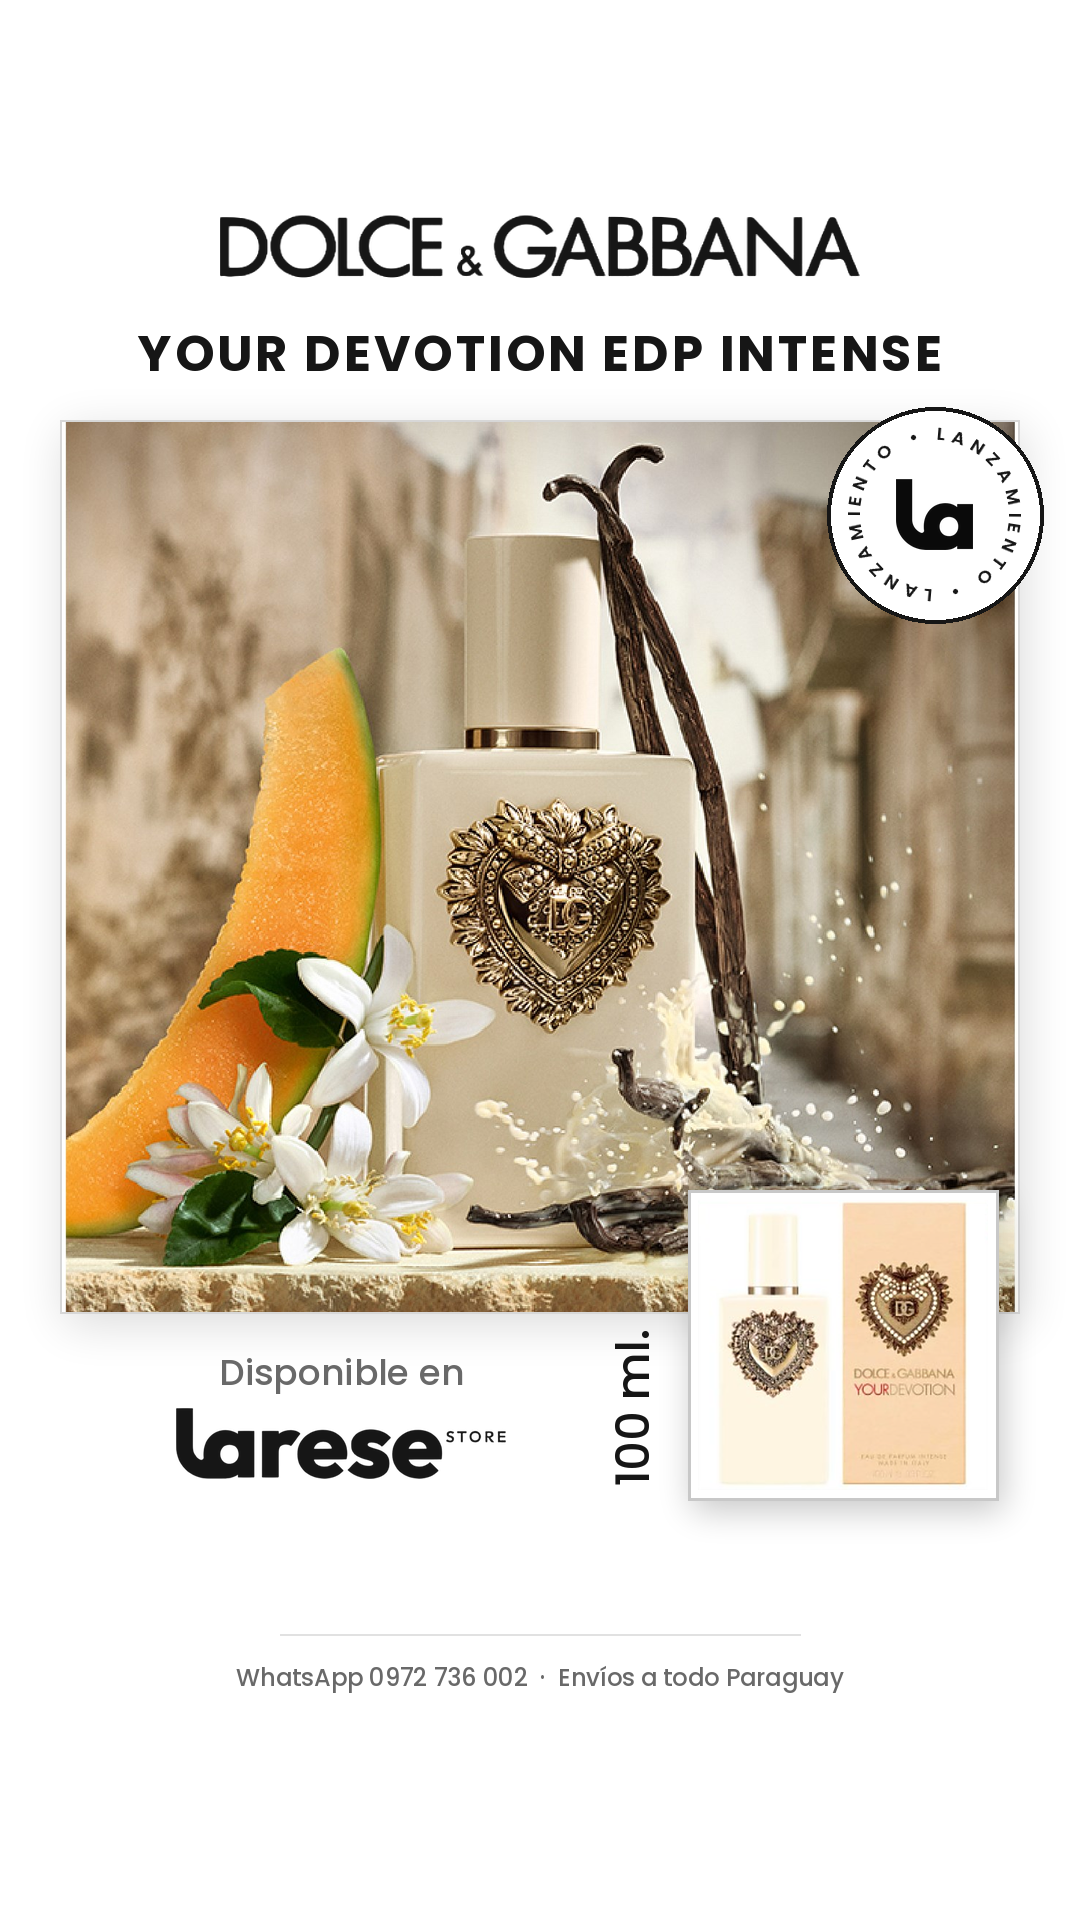
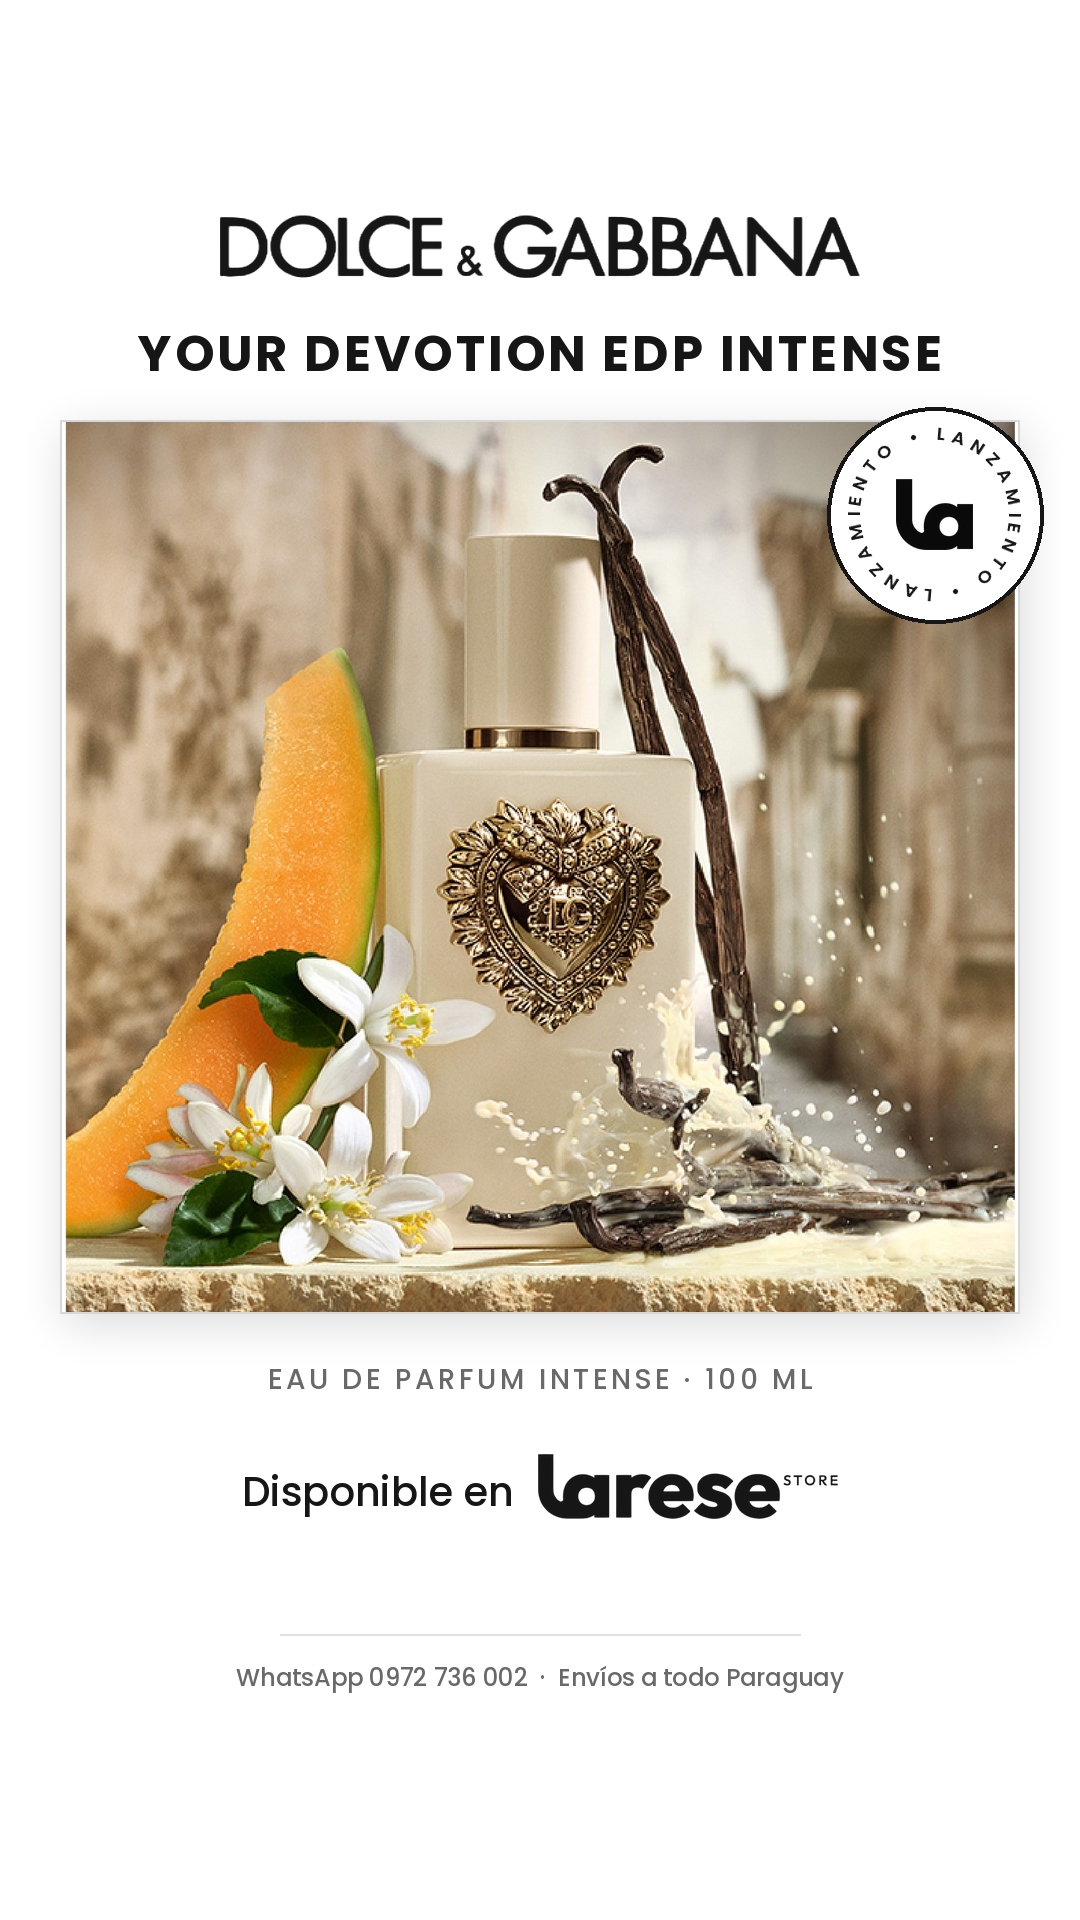
Remove bottle+box inset from Your Devotion pieces
Without an inset, the script now shows a centered detail line with the
size and a centered 'Disponible en larese STORE' row under the photo.

Claude-Session: https://claude.ai/code/session_01DnzkNLBCvMq4y8uu7fepTP

Changed region(s): [[0.4889, 0.5938, 0.9472, 0.8125], [0.1528, 0.6875, 0.4583, 0.7812]]

diff --git a/lanzamientos/crear_lanzamiento_foto.py b/lanzamientos/crear_lanzamiento_foto.py
@@ -17,6 +17,7 @@ Spec (JSON):
   "foto": "campana.jpg",
   "foto_recorte": [0, 290, 1320, 1520],     # opcional: (x0, y0, x1, y1) de la foto
   "recuadro": "frasco-caja.png",            # opcional: frasco + caja sobre blanco
+  "detalle": "Eau de Parfum Intense · 100 ml",  # sin recuadro: línea abajo de la foto
   "medida": "100 ml.",
   "sello": "LANZAMIENTO",
   "pie": "WhatsApp 0972 736 002  ·  Envíos a todo Paraguay"
@@ -97,33 +98,51 @@ def armar(SPEC, formato):
         rec = rec.resize((R - 2 * borde, R - 2 * borde), Image.LANCZOS)
         img.paste(rec, (rx0 + borde, ry0 + borde))
 
-    # tamaño en vertical, pegado al recuadro
-    if SPEC.get("medida"):
-        fm = fuente(M["medida_t"], "Medium")
-        tw = int(ancho_txt(d, SPEC["medida"], fm)) + 10
-        th = int(alto_linea(fm, 1.25))
-        capa = Image.new("RGBA", (tw, th), (0, 0, 0, 0))
-        ImageDraw.Draw(capa).text((4, 0), SPEC["medida"], font=fm, fill=TEXTO)
-        capa = capa.rotate(90, expand=True, resample=Image.BICUBIC)
-        my = int((fy1 + ry1) / 2 - capa.height / 2)
-        img.alpha_composite(capa, (rx0 - capa.width - 6, max(fy1 + 8, my)))
-
     # sello LANZAMIENTO sobre la esquina de arriba a la derecha de la foto
     if SPEC.get("sello"):
         sx, sy, sr = M["sello"]
         sello(img, sx, sy, sr, SPEC["sello"])
 
-    # "Disponible en" + logo larese STORE, a la izquierda del recuadro
-    d = ImageDraw.Draw(img)
-    zona_x0, zona_x1 = fx0, rx0 - (M["medida_t"] * 1.4)
-    zcx = (zona_x0 + zona_x1) / 2
-    fdisp = fuente(M["titulo_t"] * 0.72, "Medium")
-    logo = logo_mascara("texto", min(330, (zona_x1 - zona_x0) * 0.82))
-    alto_bloque = alto_linea(fdisp, 1.2) + logo.height
-    y = (fy1 + ry1) / 2 - alto_bloque / 2 + 6
-    txt(d, zcx, y, "Disponible en", fdisp, GRIS)
-    y += alto_linea(fdisp, 1.2)
-    img.alpha_composite(capa_color(logo, TEXTO), (int(zcx - logo.width / 2), int(y)))
+    if not SPEC.get("recuadro"):
+        # sin recuadro: detalle + tamaño centrado, y "Disponible en" + logo en una fila
+        d = ImageDraw.Draw(img)
+        y = fy1 + M["titulo_t"] * 0.9
+        detalle = SPEC.get("detalle") or SPEC.get("medida", "")
+        if detalle:
+            fdet = fuente(M["titulo_t"] * 0.58, "Medium")
+            txt(d, cx, y, detalle.upper(), fdet, GRIS, esp=M["titulo_t"] * 0.07)
+            y += alto_linea(fdet) + M["titulo_t"] * 1.1
+        fdisp = fuente(M["titulo_t"] * 0.8, "Medium")
+        logo = logo_mascara("texto", 300 if formato == "historia" else 250)
+        gap = 24
+        wt = ancho_txt(d, "Disponible en", fdisp)
+        xi = cx - (wt + gap + logo.width) / 2
+        a, _ = fdisp.getmetrics()
+        d.text((xi, y + logo.height * 0.80 - a), "Disponible en", font=fdisp, fill=TEXTO)
+        img.alpha_composite(capa_color(logo, TEXTO), (int(xi + wt + gap), int(y)))
+    else:
+        # tamaño en vertical, pegado al recuadro
+        if SPEC.get("medida"):
+            fm = fuente(M["medida_t"], "Medium")
+            tw = int(ancho_txt(d, SPEC["medida"], fm)) + 10
+            th = int(alto_linea(fm, 1.25))
+            capa = Image.new("RGBA", (tw, th), (0, 0, 0, 0))
+            ImageDraw.Draw(capa).text((4, 0), SPEC["medida"], font=fm, fill=TEXTO)
+            capa = capa.rotate(90, expand=True, resample=Image.BICUBIC)
+            my = int((fy1 + ry1) / 2 - capa.height / 2)
+            img.alpha_composite(capa, (rx0 - capa.width - 6, max(fy1 + 8, my)))
+
+        # "Disponible en" + logo larese STORE, a la izquierda del recuadro
+        d = ImageDraw.Draw(img)
+        zona_x0, zona_x1 = fx0, rx0 - (M["medida_t"] * 1.4)
+        zcx = (zona_x0 + zona_x1) / 2
+        fdisp = fuente(M["titulo_t"] * 0.72, "Medium")
+        logo = logo_mascara("texto", min(330, (zona_x1 - zona_x0) * 0.82))
+        alto_bloque = alto_linea(fdisp, 1.2) + logo.height
+        y = (fy1 + ry1) / 2 - alto_bloque / 2 + 6
+        txt(d, zcx, y, "Disponible en", fdisp, GRIS)
+        y += alto_linea(fdisp, 1.2)
+        img.alpha_composite(capa_color(logo, TEXTO), (int(zcx - logo.width / 2), int(y)))
 
     # pie
     d = ImageDraw.Draw(img)
